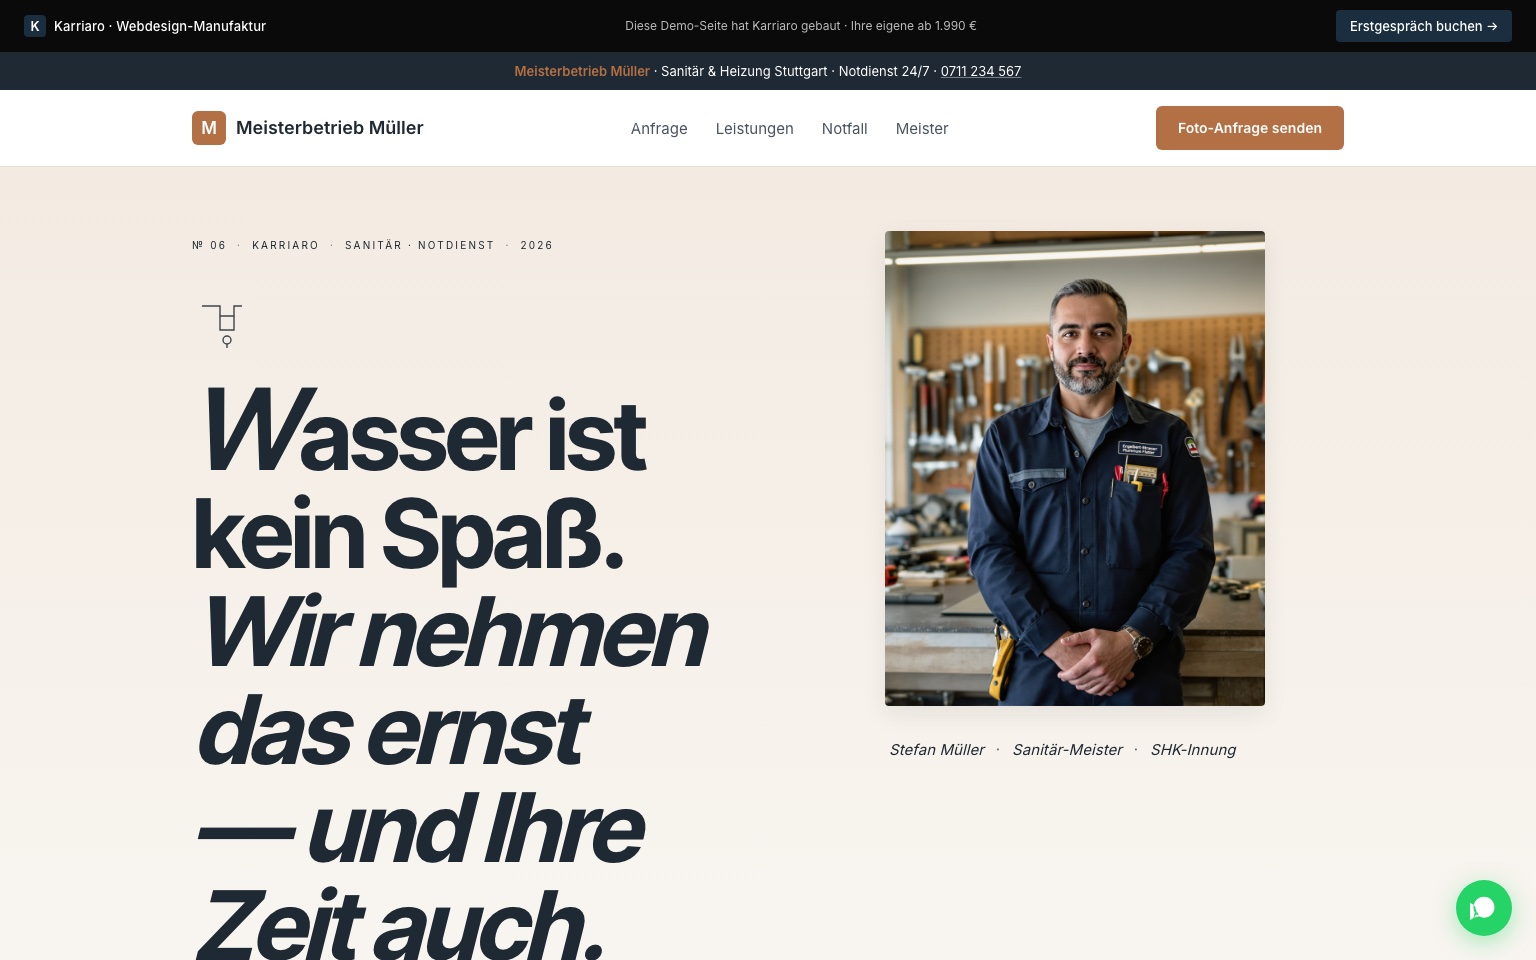
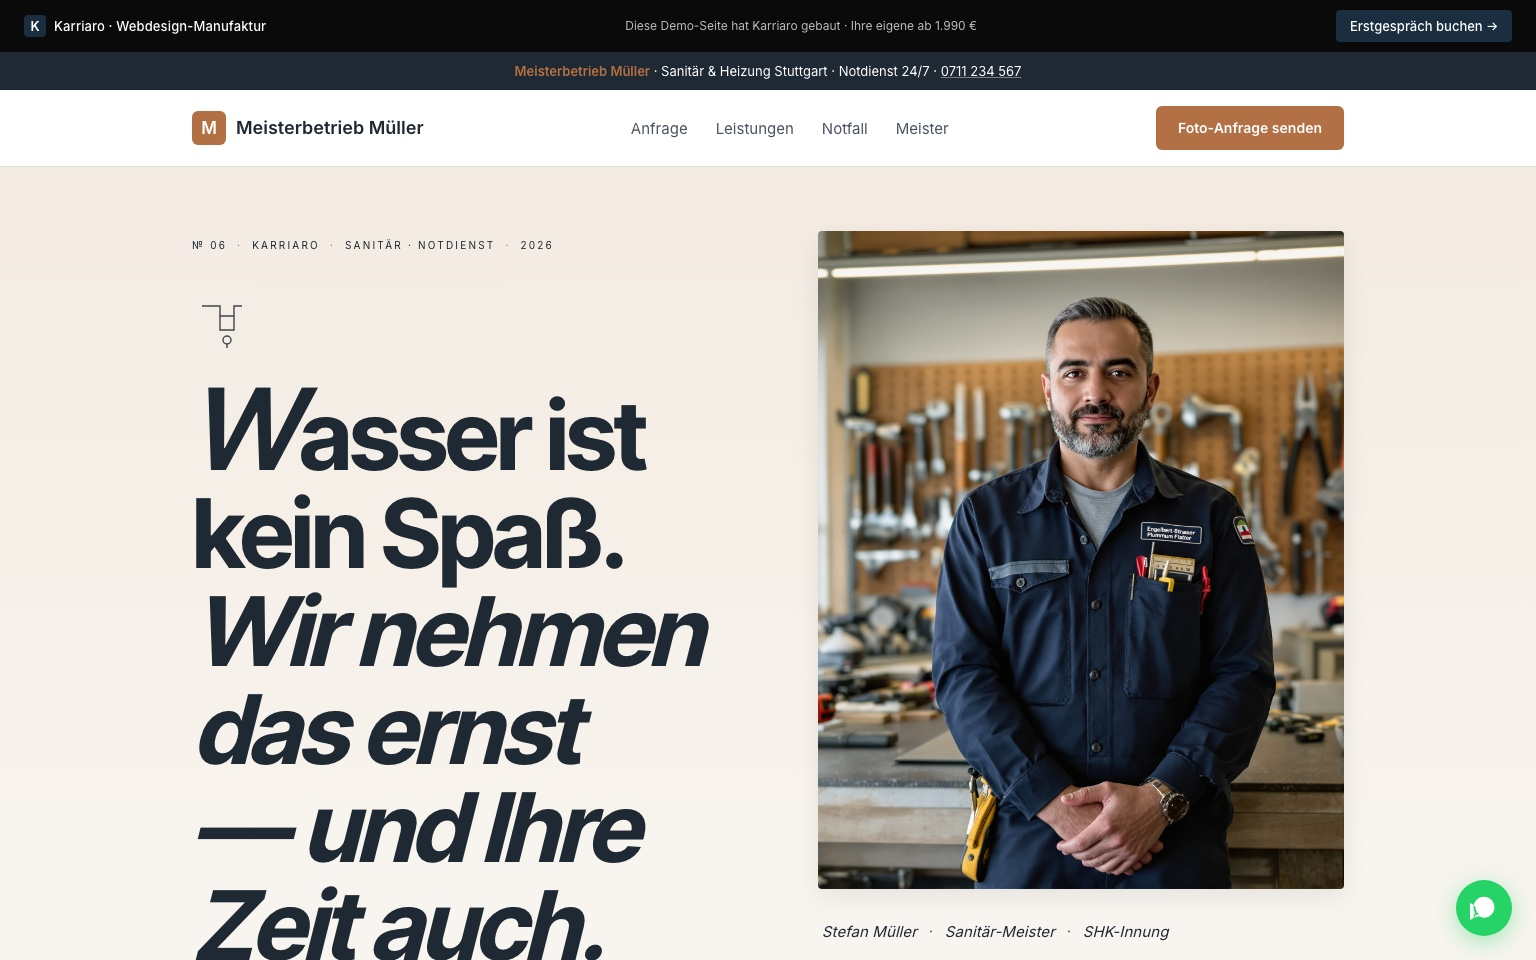
Hero-Foto-Konsolidierung 8 Portfolio-Pages: 380->540 px
Iteration 2 der visuellen Hero-Anpassung (Memory: nach 2 Iterationen Stop).

Alle 8 Portfolio-Demo-Heros bekommen jetzt einheitliche Foto-Groesse:
- Grid: 1.15fr/0.85fr -> 1fr/0.95fr (51/49 fast paritaetisch)
- Bild max-width: 380 px -> 540 px (+42 % bei 7 Pages, +8 % bei immo)
- Caption max-width: 380 px -> 540 px

Geaenderte Selektoren pro Page:
- coaching-lehmann.html: .hero-grid + .hero-portrait-img
- restaurant-template.html: .hero-grid + .hero-portrait-img
- spedition-schwaben.html: .hero-inner (Sonderfall) + .hero-portrait-img
- praxis-weber.html: .hero-grid + .hero-portrait-img
- friseur-salon.html: .hero-grid + .hero-portrait-img
- dachdecker-meisterbetrieb.html: .hero-grid + .hero-portrait-img
- meisterbetrieb-mueller.html: .hero-grid + .hero-portrait-img
- immobilien-makler.html: 500 -> 540 px (Iteration 2), zusaetzlich
  alte .hero-portrait-img-Klasse (Sprint 16-Relikt) auf 540 angeglichen

Shared CSS:
- hero-couture.css .hero-grid--editorial 1.15fr/0.85fr -> 1fr/0.95fr
- hero-couture.css .hero-portrait-img--editorial 380px -> 540px
- hero-couture.css .hero-portrait-caption 380px -> 540px

Plus 8 Mockups regeneriert via scripts/screenshot-mockups.sh
(Headless-Chrome 1536x960 -> sips JPEG 85 %).

Verifikation: npm run smoke 83/83 gruen, visueller Check Immo + Coaching
+ Spedition bestaetigt balancierte Layouts.

diff --git a/src/portfolio/immobilien-makler.html b/src/portfolio/immobilien-makler.html
@@ -162,12 +162,12 @@
         .mobile-toggle svg { width: 24px; height: 24px; }
         .mobile-menu { display: none; }
 
-        /* Sprint 85 — Andreas-Foto sichtbar groesser (max-width 380->500, Grid 1.15fr/0.85fr -> 1fr/0.95fr). */
+        /* Sprint 86 — Hero-Foto konsolidiert auf 540 px (8 Pages identisch), Grid 1fr/0.95fr. */
         .hero { display: grid; grid-template-columns: 1fr 0.95fr; gap: clamp(40px, 5vw, 72px); align-items: start; min-height: clamp(440px, 54vh, 580px); padding: 0 24px; max-width: var(--max); margin: 0 auto; background: transparent; }
         .hero-content { padding-top: 0; padding-bottom: 32px; padding-left: 0; padding-right: 0; }
         .hero-portrait { align-self: start; display: flex; flex-direction: column; padding-top: clamp(24px, 4vh, 56px); }
-        .hero-portrait img { width: 100%; max-width: 500px; aspect-ratio: 4/5; height: auto; object-fit: cover; object-position: center top; display: block; border: 1px solid var(--color-gold); border-radius: 4px; box-shadow: 0 8px 24px rgba(20,20,20,0.08); }
-        .hero-portrait .hero-portrait-caption { max-width: 500px; }
+        .hero-portrait img { width: 100%; max-width: 540px; aspect-ratio: 4/5; height: auto; object-fit: cover; object-position: center top; display: block; border: 1px solid var(--color-gold); border-radius: 4px; box-shadow: 0 8px 24px rgba(20,20,20,0.08); }
+        .hero-portrait .hero-portrait-caption { max-width: 540px; }
         @media (max-width: 920px) {
             .hero { grid-template-columns: 1fr; min-height: auto; }
             .hero-content { padding: 48px 0 32px; }
@@ -204,7 +204,7 @@
         .mockup-label { font-size: 11px; font-weight: 500; color: #6e6e73; text-transform: uppercase; letter-spacing: 0.06em; }
         .mockup-story { font-size: 16px; color: #14202B; line-height: 1.4; }
         /* Sprint 16 — Hero-Persona-Foto statt Branchen-Symbol */
-        .hero-portrait-img { aspect-ratio: 4/5; width: 100%; max-width: 480px; border-radius: var(--radius-lg); object-fit: cover; box-shadow: var(--shadow-lg); display: block; }
+        .hero-portrait-img { aspect-ratio: 4/5; width: 100%; max-width: 540px; border-radius: var(--radius-lg); object-fit: cover; box-shadow: var(--shadow-lg); display: block; }
 
         /* Wertermittlung-Widget */
         .bewertung { background: var(--bg-soft); padding: 96px 0; }

diff --git a/src/portfolio/meisterbetrieb-mueller.html b/src/portfolio/meisterbetrieb-mueller.html
@@ -147,7 +147,7 @@
         .mobile-toggle svg { width: 24px; height: 24px; }
         .mobile-menu { display: none; }
         .hero { padding: 64px 0 80px; background: linear-gradient(180deg, var(--accent-bg) 0%, var(--bg) 100%); }
-        .hero-grid { display: grid; grid-template-columns: 1.15fr 0.85fr; gap: clamp(40px, 5vw, 72px); align-items: start; }
+        .hero-grid { display: grid; grid-template-columns: 1fr 0.95fr; gap: clamp(40px, 5vw, 72px); align-items: start; }
         .hero-eyebrow { display: inline-flex; align-items: center; gap: 8px; color: var(--accent-dark); font-size: 13px; font-weight: 600; letter-spacing: 0.06em; text-transform: uppercase; margin-bottom: 16px; }
         .hero-eyebrow::before { content: ''; width: 24px; height: 1px; background: var(--accent); }
         .hero h1 { margin-bottom: 32px; }
@@ -175,7 +175,7 @@
         .browser-url { margin-left: 10px; font-size: 12px; color: #6e6e73; }
         .browser-screen-large { aspect-ratio: 16/10; width: 100%; height: auto; object-fit: cover; display: block; }
         /* Sprint 16 — Hero-Persona-Foto */
-        .hero-portrait-img { aspect-ratio: 4/5; width: 100%; max-width: 380px; border: 1px solid var(--color-gold); border-radius: 4px; object-fit: cover; box-shadow: 0 8px 24px rgba(20,20,20,0.08); display: block; }
+        .hero-portrait-img { aspect-ratio: 4/5; width: 100%; max-width: 540px; border: 1px solid var(--color-gold); border-radius: 4px; object-fit: cover; box-shadow: 0 8px 24px rgba(20,20,20,0.08); display: block; }
         .mockup-caption { display: flex; flex-direction: column; gap: 4px; margin-top: 18px; padding-left: 4px; }
         .mockup-label { font-size: 11px; font-weight: 500; color: #6e6e73; text-transform: uppercase; letter-spacing: 0.06em; }
         .mockup-story { font-size: 16px; color: #14202B; line-height: 1.4; }

diff --git a/src/portfolio/restaurant-template.html b/src/portfolio/restaurant-template.html
@@ -162,7 +162,7 @@
         /* Hero */
         .hero { padding: 64px 0 80px; background: linear-gradient(180deg, var(--accent-soft) 0%, var(--bg) 100%); }
         .hero-inner { max-width: var(--max); margin: 0 auto; padding: 0 28px; }
-        .hero-grid { display: grid; grid-template-columns: 1.15fr 0.85fr; gap: clamp(40px, 5vw, 72px); align-items: start; }
+        .hero-grid { display: grid; grid-template-columns: 1fr 0.95fr; gap: clamp(40px, 5vw, 72px); align-items: start; }
         .hero-content { max-width: 560px; }
         .hero-eyebrow { color: var(--accent); font-family: var(--sans); font-size: 12px; font-weight: 600; letter-spacing: 0.28em; text-transform: uppercase; margin-bottom: 20px; }
         .hero h1 { color: var(--text); margin-bottom: 24px; font-weight: 400; }
@@ -191,7 +191,7 @@
         .browser-url { margin-left: 10px; font-size: 12px; color: #6e6e73; }
         .browser-screen-large { aspect-ratio: 16/10; width: 100%; height: auto; object-fit: cover; display: block; }
         /* Sprint 16 — Hero-Persona-Foto */
-        .hero-portrait-img { aspect-ratio: 4/5; width: 100%; max-width: 380px; border: 1px solid var(--color-gold); border-radius: 4px; object-fit: cover; box-shadow: 0 8px 24px rgba(20,20,20,0.08); display: block; }
+        .hero-portrait-img { aspect-ratio: 4/5; width: 100%; max-width: 540px; border: 1px solid var(--color-gold); border-radius: 4px; object-fit: cover; box-shadow: 0 8px 24px rgba(20,20,20,0.08); display: block; }
         .mockup-caption { display: flex; flex-direction: column; gap: 4px; margin-top: 18px; padding-left: 4px; }
         .mockup-label { font-size: 11px; font-weight: 500; color: var(--text-light); text-transform: uppercase; letter-spacing: 0.06em; }
         .mockup-story { font-size: 16px; color: var(--text); line-height: 1.4; }

diff --git a/src/portfolio/dachdecker-meisterbetrieb.html b/src/portfolio/dachdecker-meisterbetrieb.html
@@ -147,7 +147,7 @@
         .mobile-menu { display: none; }
 
         .hero { padding: 64px 0 80px; background: linear-gradient(180deg, var(--accent-bg) 0%, var(--bg) 100%); }
-        .hero-grid { display: grid; grid-template-columns: 1.15fr 0.85fr; gap: clamp(40px, 5vw, 72px); align-items: start; }
+        .hero-grid { display: grid; grid-template-columns: 1fr 0.95fr; gap: clamp(40px, 5vw, 72px); align-items: start; }
         .hero-eyebrow { display: inline-flex; align-items: center; gap: 8px; color: var(--accent-dark); font-size: 13px; font-weight: 600; letter-spacing: 0.06em; text-transform: uppercase; margin-bottom: 16px; }
         .hero-eyebrow::before { content: ''; width: 24px; height: 1px; background: var(--accent); }
         .hero h1 { margin-bottom: 32px; }
@@ -179,7 +179,7 @@
         .browser-url { margin-left: 10px; font-size: 12px; color: #6e6e73; }
         .browser-screen-large { aspect-ratio: 16/10; width: 100%; height: auto; object-fit: cover; display: block; }
         /* Sprint 16 — Hero-Persona-Foto */
-        .hero-portrait-img { aspect-ratio: 4/5; width: 100%; max-width: 380px; border: 1px solid var(--color-gold); border-radius: 4px; object-fit: cover; box-shadow: 0 8px 24px rgba(20,20,20,0.08); display: block; }
+        .hero-portrait-img { aspect-ratio: 4/5; width: 100%; max-width: 540px; border: 1px solid var(--color-gold); border-radius: 4px; object-fit: cover; box-shadow: 0 8px 24px rgba(20,20,20,0.08); display: block; }
         .mockup-caption { display: flex; flex-direction: column; gap: 4px; margin-top: 18px; padding-left: 4px; }
         .mockup-label { font-size: 11px; font-weight: 500; color: #6e6e73; text-transform: uppercase; letter-spacing: 0.06em; }
         .mockup-story { font-size: 16px; color: #14202B; line-height: 1.4; }

diff --git a/src/portfolio/friseur-salon.html b/src/portfolio/friseur-salon.html
@@ -95,7 +95,7 @@
         .mobile-menu { display: none; }
 
         .hero { padding: clamp(64px, 8vh, 96px) 0 clamp(80px, 12vh, 140px); background: var(--bg); }
-        .hero-grid { display: grid; grid-template-columns: 1.15fr 0.85fr; gap: clamp(40px, 5vw, 72px); align-items: start; }
+        .hero-grid { display: grid; grid-template-columns: 1fr 0.95fr; gap: clamp(40px, 5vw, 72px); align-items: start; }
         .hero-eyebrow { display: inline-flex; align-items: center; gap: 12px; color: var(--accent-dark); font-size: 11px; font-weight: 500; letter-spacing: 0.28em; text-transform: uppercase; margin-bottom: 32px; }
         .hero-eyebrow::before { content: ''; width: 32px; height: 1px; background: var(--accent); }
         .hero h1 { margin-bottom: 24px; }
@@ -125,7 +125,7 @@
         .browser-url { margin-left: 10px; font-size: 12px; color: #6e6e73; }
         .browser-screen-large { aspect-ratio: 16/10; width: 100%; height: auto; object-fit: cover; display: block; }
         /* Sprint 16 — Hero-Persona-Foto */
-        .hero-portrait-img { aspect-ratio: 4/5; width: 100%; max-width: 380px; border: 1px solid var(--color-gold); border-radius: 4px; object-fit: cover; box-shadow: 0 8px 24px rgba(20,20,20,0.08); display: block; }
+        .hero-portrait-img { aspect-ratio: 4/5; width: 100%; max-width: 540px; border: 1px solid var(--color-gold); border-radius: 4px; object-fit: cover; box-shadow: 0 8px 24px rgba(20,20,20,0.08); display: block; }
         .mockup-caption { display: flex; flex-direction: column; gap: 4px; margin-top: 18px; padding-left: 4px; }
         .mockup-label { font-size: 11px; font-weight: 500; color: #6e6e73; text-transform: uppercase; letter-spacing: 0.06em; }
         .mockup-story { font-size: 16px; color: #14202B; line-height: 1.4; }

diff --git a/src/portfolio/praxis-weber.html b/src/portfolio/praxis-weber.html
@@ -159,7 +159,7 @@
 
         /* Hero */
         .hero { padding: 80px 0 96px; background: linear-gradient(180deg, var(--accent-bg) 0%, var(--bg) 100%); }
-        .hero-grid { display: grid; grid-template-columns: 1.15fr 0.85fr; gap: clamp(40px, 5vw, 72px); align-items: start; }
+        .hero-grid { display: grid; grid-template-columns: 1fr 0.95fr; gap: clamp(40px, 5vw, 72px); align-items: start; }
         .hero-eyebrow { display: inline-flex; align-items: center; gap: 8px; color: var(--accent-dark); font-size: 13px; font-weight: 600; letter-spacing: 0.06em; text-transform: uppercase; margin-bottom: 18px; }
         .hero-eyebrow::before { content: ''; width: 24px; height: 1px; background: var(--accent); }
         .hero h1 { margin-bottom: 32px; }
@@ -188,7 +188,7 @@
         .browser-url { margin-left: 10px; font-size: 12px; color: #6e6e73; }
         .browser-screen-large { aspect-ratio: 16/10; width: 100%; height: auto; object-fit: cover; display: block; }
         /* Sprint 16 — Hero-Persona-Foto */
-        .hero-portrait-img { aspect-ratio: 4/5; width: 100%; max-width: 380px; border: 1px solid var(--color-gold); border-radius: 4px; object-fit: cover; box-shadow: 0 8px 24px rgba(20,20,20,0.08); display: block; }
+        .hero-portrait-img { aspect-ratio: 4/5; width: 100%; max-width: 540px; border: 1px solid var(--color-gold); border-radius: 4px; object-fit: cover; box-shadow: 0 8px 24px rgba(20,20,20,0.08); display: block; }
         .mockup-caption { display: flex; flex-direction: column; gap: 4px; margin-top: 18px; padding-left: 4px; }
         .mockup-label { font-size: 11px; font-weight: 500; color: #6e6e73; text-transform: uppercase; letter-spacing: 0.06em; }
         .mockup-story { font-size: 16px; color: #14202B; line-height: 1.4; }

diff --git a/src/portfolio/spedition-schwaben.html b/src/portfolio/spedition-schwaben.html
@@ -175,7 +175,7 @@
         .mobile-menu { display: none; }
 
         .hero { background: linear-gradient(180deg, var(--accent-soft) 0%, var(--bg) 100%); padding: 80px 0 64px; position: relative; overflow: hidden; }
-        .hero-inner { max-width: var(--max); margin: 0 auto; padding: 0 24px; display: grid; grid-template-columns: 1.15fr 0.85fr; gap: clamp(40px, 5vw, 72px); align-items: start; }
+        .hero-inner { max-width: var(--max); margin: 0 auto; padding: 0 24px; display: grid; grid-template-columns: 1fr 0.95fr; gap: clamp(40px, 5vw, 72px); align-items: start; }
         .hero-content .eyebrow { color: var(--signal); }
         .hero h1 { margin-bottom: 22px; color: var(--text); }
         .hero h1 .hl { color: var(--accent); }
@@ -188,7 +188,7 @@
         .hero-trust .sep { color: var(--border-strong); }
         .hero-content > .hero-mockup { display: none; }
         .hero-inner > .hero-mockup { display: block; width: 100%; }
-        .hero-portrait-img { width: 100%; aspect-ratio: 4/5; max-width: 380px; object-fit: cover; border: 1px solid var(--color-gold); border-radius: 4px; box-shadow: 0 8px 24px rgba(20,20,20,0.08); display: block; }
+        .hero-portrait-img { width: 100%; aspect-ratio: 4/5; max-width: 540px; object-fit: cover; border: 1px solid var(--color-gold); border-radius: 4px; box-shadow: 0 8px 24px rgba(20,20,20,0.08); display: block; }
         .tracking-section { padding: 56px 0 72px; background: var(--bg-soft); border-top: 1px solid var(--border); }
         .tracking-inner { max-width: var(--max); margin: 0 auto; padding: 0 24px; }
         .tracking-head { margin-bottom: 28px; max-width: 720px; }

diff --git a/src/portfolio/coaching-lehmann.html b/src/portfolio/coaching-lehmann.html
@@ -86,7 +86,7 @@
         @media (max-width: 800px) { nav.primary { display: none; } header .nav-inner { height: 64px; } }
 
         .hero { padding: 80px 0 60px; background: var(--bg); }
-        .hero-grid { display: grid; grid-template-columns: 1.15fr 0.85fr; gap: clamp(40px, 5vw, 72px); align-items: start; }
+        .hero-grid { display: grid; grid-template-columns: 1fr 0.95fr; gap: clamp(40px, 5vw, 72px); align-items: start; }
         @media (max-width: 920px) { .hero-grid { grid-template-columns: 1fr; gap: 40px; } }
         .hero-content h1 { margin: 18px 0 24px; }
         .hero-content .lead { font-size: clamp(17px, 1.4vw, 19px); color: var(--text-soft); max-width: 540px; margin-bottom: 36px; }
@@ -100,7 +100,7 @@
         .hero-trust span { font-size: 13px; color: var(--text-light); display: inline-flex; align-items: center; }
         .hero-trust .sep { color: var(--border-strong); }
         .hero-trust .check { color: var(--accent); font-weight: 600; }
-        .hero-portrait-img { aspect-ratio: 4/5; width: 100%; max-width: 380px; border: 1px solid var(--color-gold); border-radius: 4px; object-fit: cover; box-shadow: 0 8px 24px rgba(20,20,20,0.08); display: block; margin-left: auto; }
+        .hero-portrait-img { aspect-ratio: 4/5; width: 100%; max-width: 540px; border: 1px solid var(--color-gold); border-radius: 4px; object-fit: cover; box-shadow: 0 8px 24px rgba(20,20,20,0.08); display: block; margin-left: auto; }
 
         .methoden { background: var(--bg-soft); }
         .section-head { text-align: left; max-width: 720px; margin: 0 0 64px; }

diff --git a/src/css/hero-couture.css b/src/css/hero-couture.css
@@ -106,12 +106,12 @@
    Inline-CSS in den Sub-Pages wird per Page direkt angepasst (höhere Spezifität);
    die Klassen hier sind die kanonische Regel-Quelle. */
 .hero-grid--editorial {
-    grid-template-columns: 1.15fr 0.85fr;
+    grid-template-columns: 1fr 0.95fr;
     gap: clamp(40px, 5vw, 72px);
     align-items: start;
 }
 .hero-portrait-img--editorial {
-    max-width: 380px;
+    max-width: 540px;
     border: 1px solid var(--color-gold);
     border-radius: 4px;
     box-shadow: 0 8px 24px rgba(20, 20, 20, 0.08);
@@ -125,7 +125,7 @@
     line-height: 1.45;
     letter-spacing: 0.005em;
     color: var(--color-graphite-soft);
-    max-width: 380px;
+    max-width: 540px;
 }
 .hero-portrait-caption .sep {
     color: var(--color-gold);
